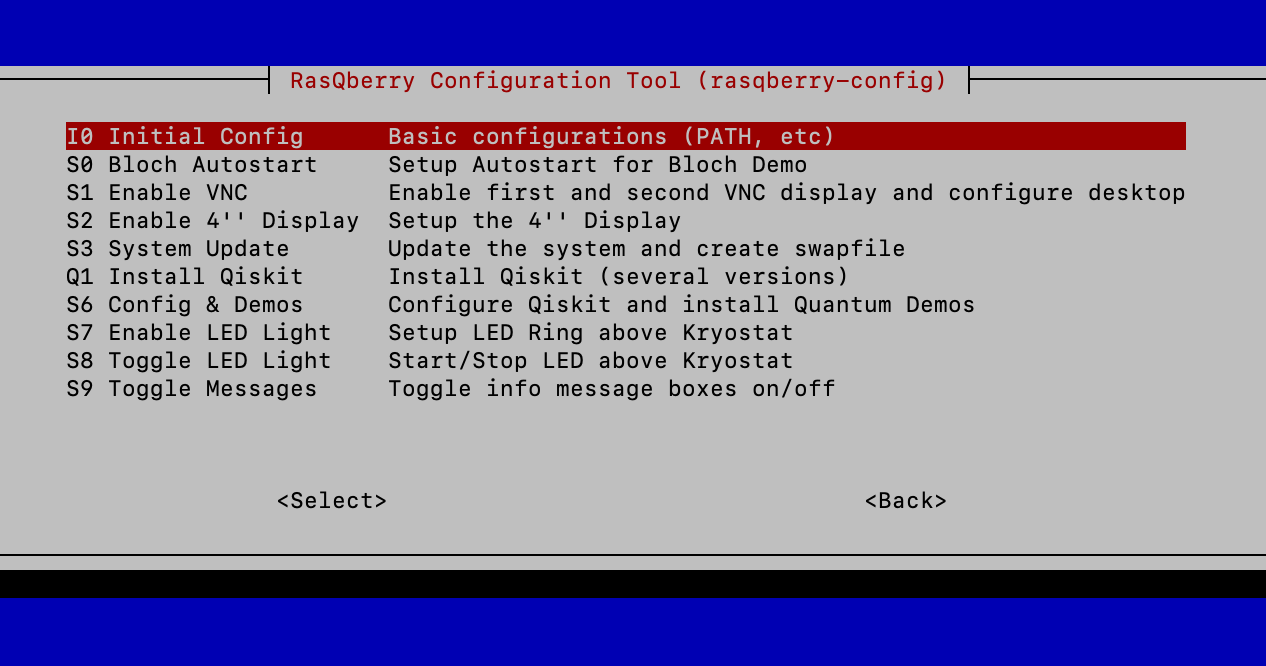
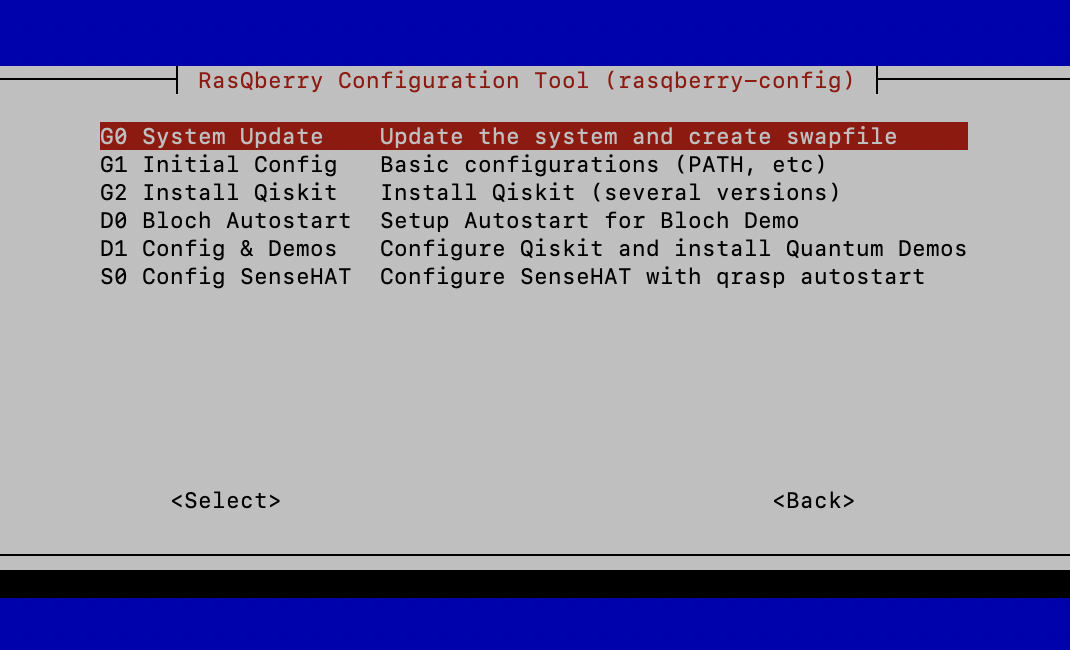
Update Documentation

diff --git a/documentation/RasQberry_Setup.md b/documentation/RasQberry_Setup.md
@@ -66,47 +66,46 @@ This will download and start the RasQberry Configuration Tool (rasqberry-config)
 To start the tool again you can use 
 ```pyhton 
 . ./RasQ-init.sh 
-````
+```
 in your terminal/ssh window.
 
 <br/>
 
 ## Step 4: RasQberry Setup
-You can assemble your Hardware either with an (touch) display or with an senseHAT. It is not possible to use the senseHAT and the touch display on the same Raspberry P, because the senseHAT isn't working with the installation process from the touch display.
+You can assemble your Hardware either with an (touch) display or with an senseHAT. It is not possible to use the senseHAT and the touch display on the same Raspberry Pi, because the senseHAT isn’t working with the installation process from the touch display.
+<br/>
+
 ### With touch display
-In the RasQberry Configuration Tool select `S – RasQberry Setup`. <br/> Follow these steps one by one.
-1.	Select `I0 – Initial Config`   
-Your Raspberry will process the basic configurations on your device
-1.	Select `S1 – Enable VNC` (required if you want to remotely access the screen)  
-With this step you will be able to use VNC
-After this step is executed, you will have to reboot your device.
-(See also: Install VNC Viewer)
-1.	Select `S2 – Enable 4’’ Display` (required if using a touchscreen)  
-With this step you will be able to use a touchscreen with your Raspberry.
-After this step is executed, you will have to reboot your device
-1.	Select `S3 – Software Update`   
-With this step your device is searching for software updates and will execute them.
-After this step is executed, you will have to reboot your device.
-1.	Select `Q1 – Install Qiskit`  
+Open the RasQberry Configuration Tool and follow the steps below.
+1. Select `S – RasQberry Setup`
+1. Select `G0 – System Update`
+1. Select `G1 - Initial Config`<br/>
+Your Raspberry will process the basic configurations on your device.
+1. Select `G2 – Install Qiskit`<br/>
 With this step you will install Qiskit. You can choose between a few versions of Qiskit to install. The latest version is recommended.
-1.	Select `S0 – Bloch Autostart`   
-With this step your Raspberry will start the Bloch Sphere Demo automatically whenever you start your device. 
-After your first time executing `S0` your Raspberry will reboot automatically. After the reboot you should execute `S0` again. This time there is no automatic reboot, but one is recommended.
-1.	Select `S7 – Enable LED Lights` (optional)   
-With this step you can enable LED Lights that you connected to your Raspberry Pi.
+1. Select `D0 – Bloch Autostart`<br/>
+With this step you Raspberry will start the Bloch Sphere Demo automatically whenever you start your device.<br/>
+After your first the executing `D0` your Raspberry will reboot automatically. After the reboot you should execute `D0` again. This time there is no automatic reboot, but one is recommended.
+1. Select `D1 – Config & Demos` (optional)<br/>
+With this step you will configurate Qiskit automatically and install the Quantum Demos. Also this step will configurate jupyter notebook.
+1. Go back to the first menu page and select `A – Advaned Config`
+1. Select `S1 – Enable VNC` (optional; required if you want to remotely access the screen)<br/>
+With this step you will be able to use VNC.<br/>
+After this step is executed, you will have to reboot your device. (See also: Install VNC Viewer)
+1. Select `S2 – Enable 4’’ Display` (required if using touch screen)<br/>
+With this step you will be able to use a touchscreen with your Raspberry. After this step is executed, you will have to reboot your device.
+1. Under `A – Advanced Config’ and ‘S7 – Enable LED Light` you can enable the LED Light you connected to your Raspberry Pi.
 
 ### With Sense HAT
-In the RasQberry Configuration Tool select `S – RasQberry Setup`. <br/> Follow these steps one by one.
-1.	Select `I0 – Initial Config`   
-Your Raspberry will process the basic configurations on your device
-1.	Select `S3 – Software Update`   
-With this step your device is searching for software updates and will execute them.
-After this step is executed, you will have to reboot your device.
-1.	Select `Q1 – Install Qiskit`  
+Open the RasQberry Configuration Tool and follow the steps below.
+1. Select `S – RasQberry Setup`
+1. Select `G0 – System Update`
+1. Select `G1 – Initial Config’
+Your Raspberry will process the basic configurations on your device.
+1. Select `G2 – Install Qiskit`
 With this step you will install Qiskit. You can choose between a few versions of Qiskit to install. The latest version is recommended.
-1.	Select `S6 – Config & Demos` (optional if using touchscreen; required if using Sense HAT)  
-With this step you will configurate Qiskit automatically and install the Quantum Demos. Also, this step will configurate jupyter notebook.  
-This step will also configurate jupyter notebook and install the any required packages for the jupyter notebook, the Sense HAT and the Sense HAT Emulator.
+1. Select `S0 – Config SenseHAT`<br/>
+With this step you will configurate the SenseHAT and the qrasp demo will autostart.
 
 <br/>
 
@@ -124,7 +123,7 @@ In the terminal you can now enter your new API Token.
 ## Cloning the Git-Repository with the Qiskit-tutorials 
 By executing the following instructions you clone a repository (https://github.com/Qiskit/qiskit-tutorials) with a collection of jupyter notebooks aimed at teaching people who want to use Qiskit for writing quantum computing programs, and executing them on one of several backends (online quantum processors, online simulators, and local simulators).
 
-If you want to clone the Git Repository to access the with the Qiskit-Tutorials, you need to open the RasQberry Configuration Tool. First select `H - HD Demos` and second `Q1 - Qiskit Tutorials` (Jupyter Notebokk starts automatically) or `Q2 - Qiskit Tutorials - no browser`.<br/>
+If you want to clone the Git Repository to access the with the Qiskit-Tutorials, you need to open the RasQberry Configuration Tool. First select `H - HD Demos` and second `Q1 - Qiskit Tutorials` (Jupyter Notebokk starts automatically).<br/>
 This will take a moment to clone and as the case may be to open the jupyter notebook.
  
  <br/>
@@ -190,15 +189,6 @@ Your VNC Viewer will now connect to your Raspberry Pi.
 
 <br/>
 
-## Enable/Disable second VNC Display
-You can enable a second vnc display with an higher resolution that functions as a side-to-side display to your RasQberry or your first vnc display.<br/>
-To enable the second display you need to open the Rasqberry Configuration Tool and select `S - RasQberry Setup` and then `S1a - Enable second VNC`.<br/>
-You can now connect to the vnc server with the address: *{ip address}:5902*<br/>
-
-To disable the second display you need to open the Rasqberry Configuration Tool and select `S - RasQberry Setup`and then `S1b - Disable second VNC`.<br>
-
-<br/>
-
 ## Connect a LED Ring-Light to your Raspberry Pi
 To connect your LED light, you need three cables (GND, VCC & IN).
 Put your cables on the Raspberry Pins as follows:
@@ -224,3 +214,6 @@ Your LED Light should now be turned on. To turn it of press ctl + c.
 
 If this method doesn’t work, you can also open the RasQberry Configuration Tool. Select `S – RasQberry Setup`, then `S7 – Enable LED Light` and finally `S8 – Toggle LED Light`.  
 Your LED Light should now be turned on. To turn it off again select `S8 – Toggle LED Light` again.
+
+[Go back to: Content](./README.md) <br/>
+[Go back to: Start Page](../README.md)  

diff --git a/documentation/RasQberry_Demos.md b/documentation/RasQberry_Demos.md
@@ -117,12 +117,12 @@ By cloning the git-repository with the qiskit-demos you have access to new jupyt
 
 ### Jupyter Notebooks<br/>
 In your Jupyter Notebook you can invastigate demos (e.g. the qiskit tutorials and demos) or can run your own code.<br/>
-By executing `S6 - Config & Demos` in the Rasqberry Configuration Tool you have acces to more demos that you can run in jupyter notebooks on your Raspberry Pi. You need to provide your API Token and the jupyter notebook will be configurated.
+By executing `D1 - Config & Demos` (under `S - RasQerry Setup`) in the Rasqberry Configuration Tool you have acces to more demos that you can run in jupyter notebooks on your Raspberry Pi. You need to provide your API Token and the jupyter notebook will be configurated.
 <br/>
 
 * **Start**<br/>
 To start the Jupyter Notebook you need to open the Rasqberry Configuration Tool. You can start it automatically with the Qiskit demos or with the Fun-qith-Quantum Demos. <br/>
-You need to select `H - HD Demos`and then the option you want.<br/>
+You need to select `H - HD Demos` and then the option you want.<br/>
 The Jupyter Noebook boots in the background ans you can access it over your browser or it will open on your RasQberry.<br/> 
 <br/>
 If you want to start the jupyter notebook with the cloned Fun-with-Quantum or Qiskit-Tutorials Repository you can open the Rasqberry-Configuration Tool and select `H - HD Demos` and then choose the demo you want to access.<br/>
@@ -130,3 +130,6 @@ If you want to start the jupyter notebook with the cloned Fun-with-Quantum or Qi
 When you are on your Raspberry you can access the Jupyter Notebook by opening http://raspberrypi:8888/ in your browser. When you want to access the Jupyter Notebook on your Laptop you can open it by typing http://{ip address}:{port}. The Default port is *8888*. You can find the corresponding portnumber in the messagebox.
 The password is *RasQberry*.<br/>
 You can now use the Jupyter notebook.
+
+[Go back to: Content](./README.md) <br/>
+[Go back to: Start Page](../README.md) 

diff --git a/documentation/3DModel_BillOfMaterial.md b/documentation/3DModel_BillOfMaterial.md
@@ -6,3 +6,6 @@ We will provide a more detailed BOM later. The following list should help to get
 1. Touch display. The following touch screen fits exactly into backplane of the current 3D model: [Miuzei Raspberry Pi 4 Touchscreen, 4 inch](http://www.miuzeipro.com/product/miuzei-raspberry-pi-4-touch-screen-with-case-fan-4-inch-ips-full-angle-game-display-800x480-pixel-support-hdmi-input-with-touch-pen-4-pcs-heatsinks-support-raspbian-kali-by-miuzei/). We plan to provide more flexibility in the future to support other types as well.
 1. As an alternative to the touch screen, some of our demos can (only) be used with a [SenseHAT](https://www.raspberrypi.org/products/sense-hat/). The "closed backplane" of the 3D model can be modified to nicely fit the SenseHAT.
 1. Some additional cables to connect the components, a power supply (optionally a battery pack that fits inside the 3D model), acrylic glass, LED ring, etc are needed for a complete model.
+
+[Go back to: Content](./README.md) <br/>
+[Go back to: Start Page](../README.md) 

diff --git a/documentation/3DModel.md b/documentation/3DModel.md
@@ -7,3 +7,5 @@ An enclosure (3D model) of the IBM Q System One can be used for RasQberry. STL f
 ### Assembly for Version 5.5
 [![](http://img.youtube.com/vi/LZZDI9oBFN8/0.jpg)](https://www.youtube.com/watch?v=LZZDI9oBFN8 "assembly animation RasQberry 3D model v.5.5") 
 
+[Go back to: Content](./README.md) <br/>
+[Go back to: Start Page](../README.md) 

diff --git a/documentation/HowToUse.md b/documentation/HowToUse.md
@@ -65,3 +65,6 @@ When you click this icon the RasQ-LED Demo starts, if you connected any LED Ligh
 ### Clear LED Lights
 <img src="../icons/RaspberryQiskitEarsTop.png" alt="drawing" width="64"/> <br/>
 When you click this icon you clear all attached LED Lights.
+
+[Go back to: Content](./README.md) <br/>
+[Go back to: Start Page](../README.md) 

diff --git a/documentation/RasQberry_checkList.md b/documentation/RasQberry_checkList.md
@@ -64,3 +64,6 @@ You can sccess these demos with the RasQberry Configuration Tool under `D - Quan
 - [ ] Rasqberry-Tie 5<br/>
 - [ ] Rasqberry-Tie 16<br/>
 - [ ] Qrasp<br/>
+
+[Go back to: Content](./README.md) <br/>
+[Go back to: Start Page](../README.md) 

diff --git a/documentation/HowToContribute.md b/documentation/HowToContribute.md
@@ -119,3 +119,6 @@ When you are done with your description you need to click on `Create pull reques
 <br/>
 
 Congratulations, you created a pull request!
+
+[Go back to: Content](./README.md) <br/>
+[Go back to: Start Page](../README.md) 
